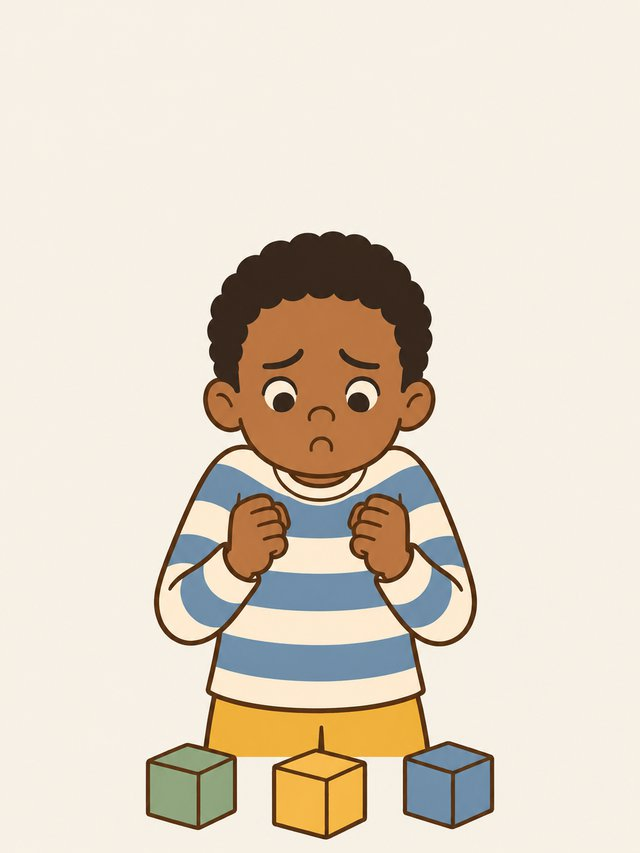
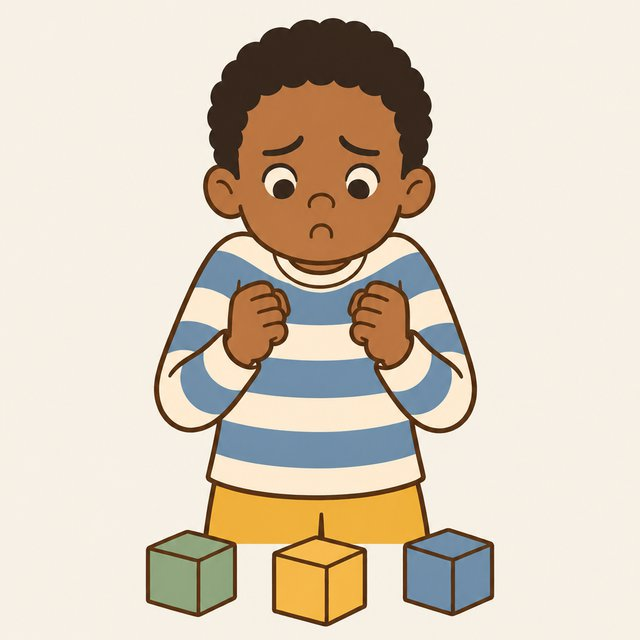
Make cards fill the screen and trim empty space from the new pictures
- Play screen: card width now fits the window. All of a story's cards
  sit in one row and the spots, tray and Check button fit the height,
  up to 340 px wide (was a fixed 172 px at standard size). Large and
  largest scale up from there. Captions grow with the cards. Other
  screens keep their stylesheet sizes.
- The four Codex picture sets are trimmed to the band their scenes use
  (one shared crop per story, so scale never changes between cards;
  close-ups get their own top trim). Codex left 20-35% empty cream above
  most scenes, so drawings now fill the card.
- Docs note the fit rule and the trim-at-install step.

Changed region(s): [[0.2188, 0.0312, 0.7812, 1.0], [0.2188, 0.9375, 0.375, 0.9688]]

diff --git a/index.html b/index.html
@@ -670,8 +670,34 @@ const pick = { storyId: null, style: null, direction: 'forward', size: 'standard
 
 function show(name) {
   for (const id of ['setup', 'play', 'summary', 'about']) $(id).hidden = id !== name;
+  fitCards();
   window.scrollTo(0, 0);
 }
+
+// Play screen: the cards grow to use the screen. All of a story's cards fit
+// in one row, and the spots plus the tray fit the window's height, up to a
+// sensible maximum. The card-size setting scales up from there (bigger cards
+// may wrap onto two rows). Captions grow with the cards. Other screens keep
+// the sizes set in the stylesheet.
+const SIZE_SCALE = { standard: 1, large: 1.2, largest: 1.45 };
+function fitCards() {
+  const root = document.documentElement, main = document.querySelector('main');
+  if (!S || $('play').hidden) {
+    root.style.removeProperty('--cw');
+    root.style.removeProperty('--cap');
+    main.style.removeProperty('max-width');
+    return;
+  }
+  const n = S.story.cards.length, gap = 16;
+  const width = Math.min(root.clientWidth, 1680) - 40 - 32 - 12;   // page and tray padding, slack for borders
+  const byWidth = (width - (n - 1) * gap) / n;
+  const byHeight = (window.innerHeight - 380) / 2.75;   // spots, tray and Check all on screen
+  const cw = Math.floor(Math.max(96, Math.min(byWidth, byHeight, 340) * (SIZE_SCALE[pick.size] || 1)));
+  root.style.setProperty('--cw', cw + 'px');
+  root.style.setProperty('--cap', Math.min(1.6, Math.max(1, cw / 180)).toFixed(2));
+  main.style.maxWidth = '1680px';
+}
+window.addEventListener('resize', fitCards);
 
 function el(tag, cls, text) {
   const n = document.createElement(tag);

diff --git a/CLAUDE.md b/CLAUDE.md
@@ -74,12 +74,12 @@ probably wrong. Full statement: top of README.
   then the rest from it. One tool per story.
   Drafts go in img/_drafts/ (git-ignored) with a
   review.html per round.
-- Caption-safe band: with words shown the card
-  keeps about the middle 65% of the picture, so
-  heads and key props sit between 20% and 80%
-  of the height. Full-scene cards are padded
-  evenly at install (same amount per story).
-  Keep captions to about three lines.
+- Cards with a paper colour show the whole
+  picture, so at install trim each set to the
+  band its scenes use: one shared crop for a
+  story's full scenes (scale never changes), its
+  own top trim for the close-up. Keep captions
+  to about three lines.
 story = {
   id, title, gradeBand,
   reversible: bool,
@@ -151,6 +151,11 @@ Three parts, top to bottom:
   below the list.
 Card size: standard | large | largest (memory
 only; sets --cw through data-size on :root).
+On the play screen fitCards() overrides --cw
+(and --cap): all of a story's cards fit one
+row and spots + tray + Check fit the window,
+max 340px; large/largest scale that by 1.2 /
+1.45 (may wrap). Other screens use the CSS.
 Story list view: pictures (default) | list.
 The list is grouped by story.set, in this
 order: narrative "Stories", routine "Everyday

diff --git a/image-prompts.md b/image-prompts.md
@@ -748,12 +748,14 @@ Generous plain cream space around everything.
 Card 3 (feeling) is a waist-up close view and uses only CAST plus the
 matching A2 cell.
 
-**Caption-safe band.** With words shown, the app crops each card to a wider
-picture area, keeping about the middle 65% of the height. Keep everything
-that matters between about 20% and 80% of the height. Round 1 had heads too
-near the top, so the installed full-scene cards were padded evenly (one
-shared scale: 1086x1448 → 1248x1665, cream #f6f0e4) before resizing to
-640 wide. Close views (the feeling card) need no padding.
+**Trim at install.** Cards with a `paper` colour now show the whole picture
+(no crop), so the padding used in round 1 is gone. Instead each set is
+trimmed to the band its scenes actually use, so the drawing fills the card:
+the full-scene cards of a story share one crop (full width, same top and
+bottom, so scale never changes between them) with about 30 px of margin;
+the close-up feeling card gets its own top trim. Then resize to 640 wide.
+Codex leaves 20–35% empty cream above most scenes, so this roughly doubles
+the drawing's size on the card.
 
 ### References per card
 
